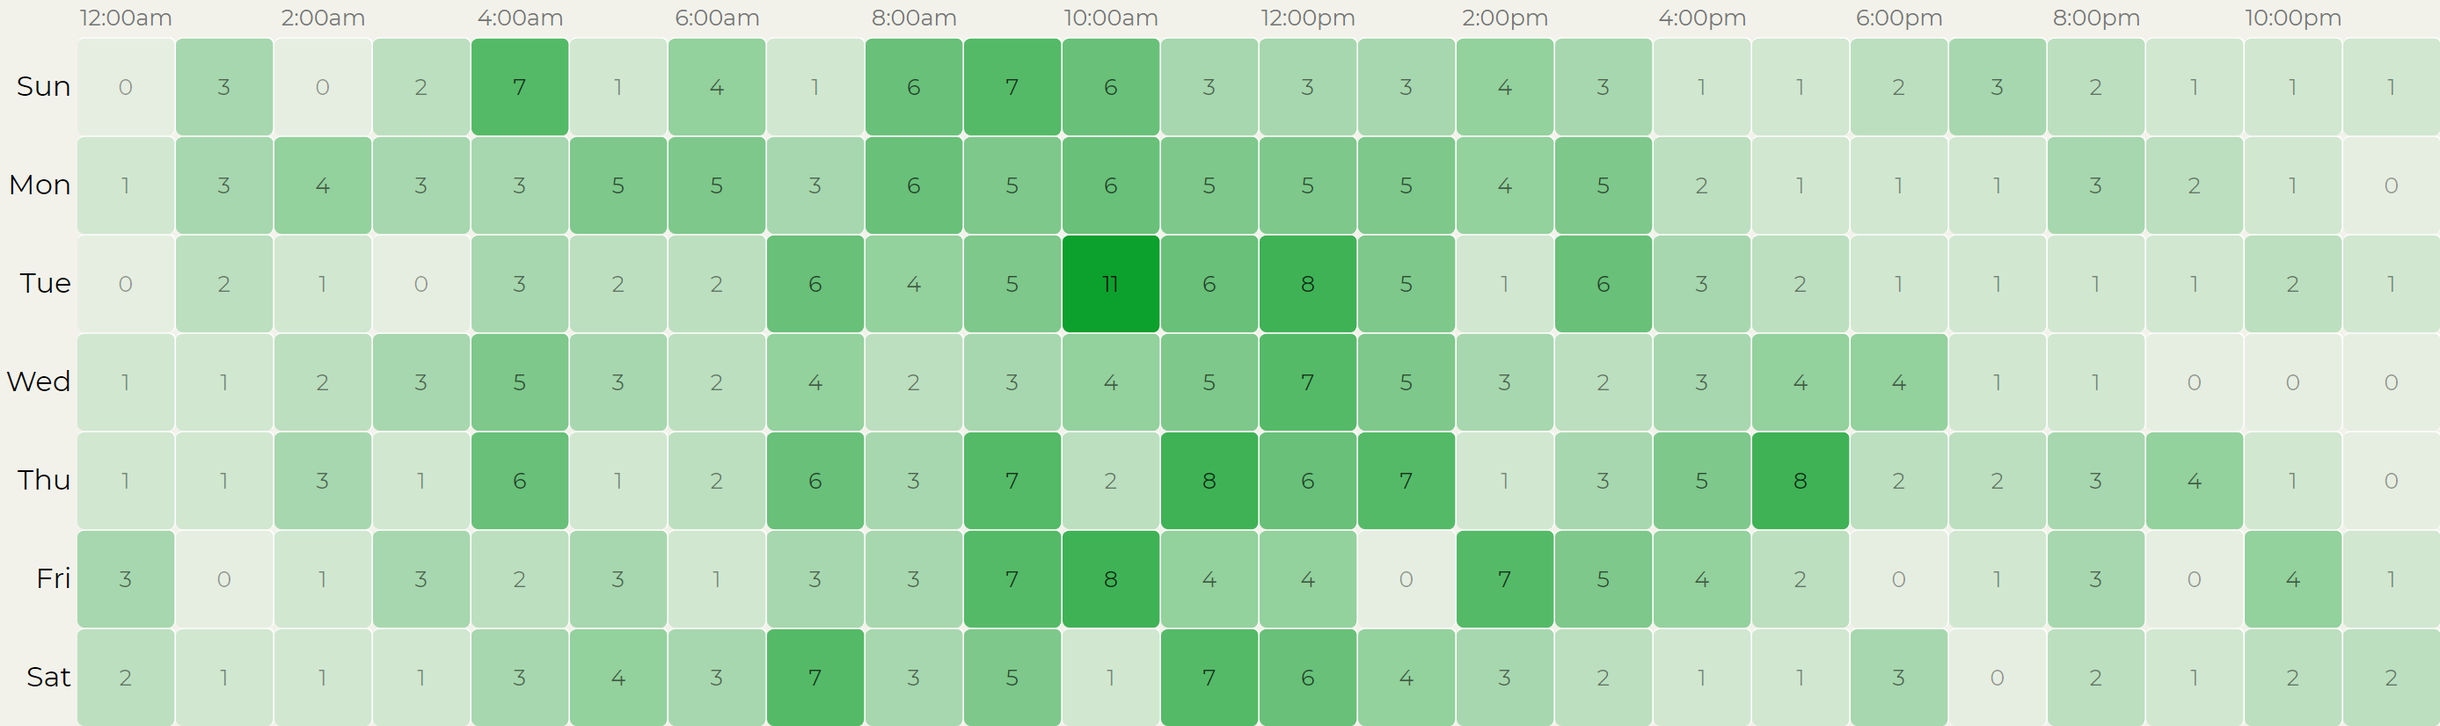
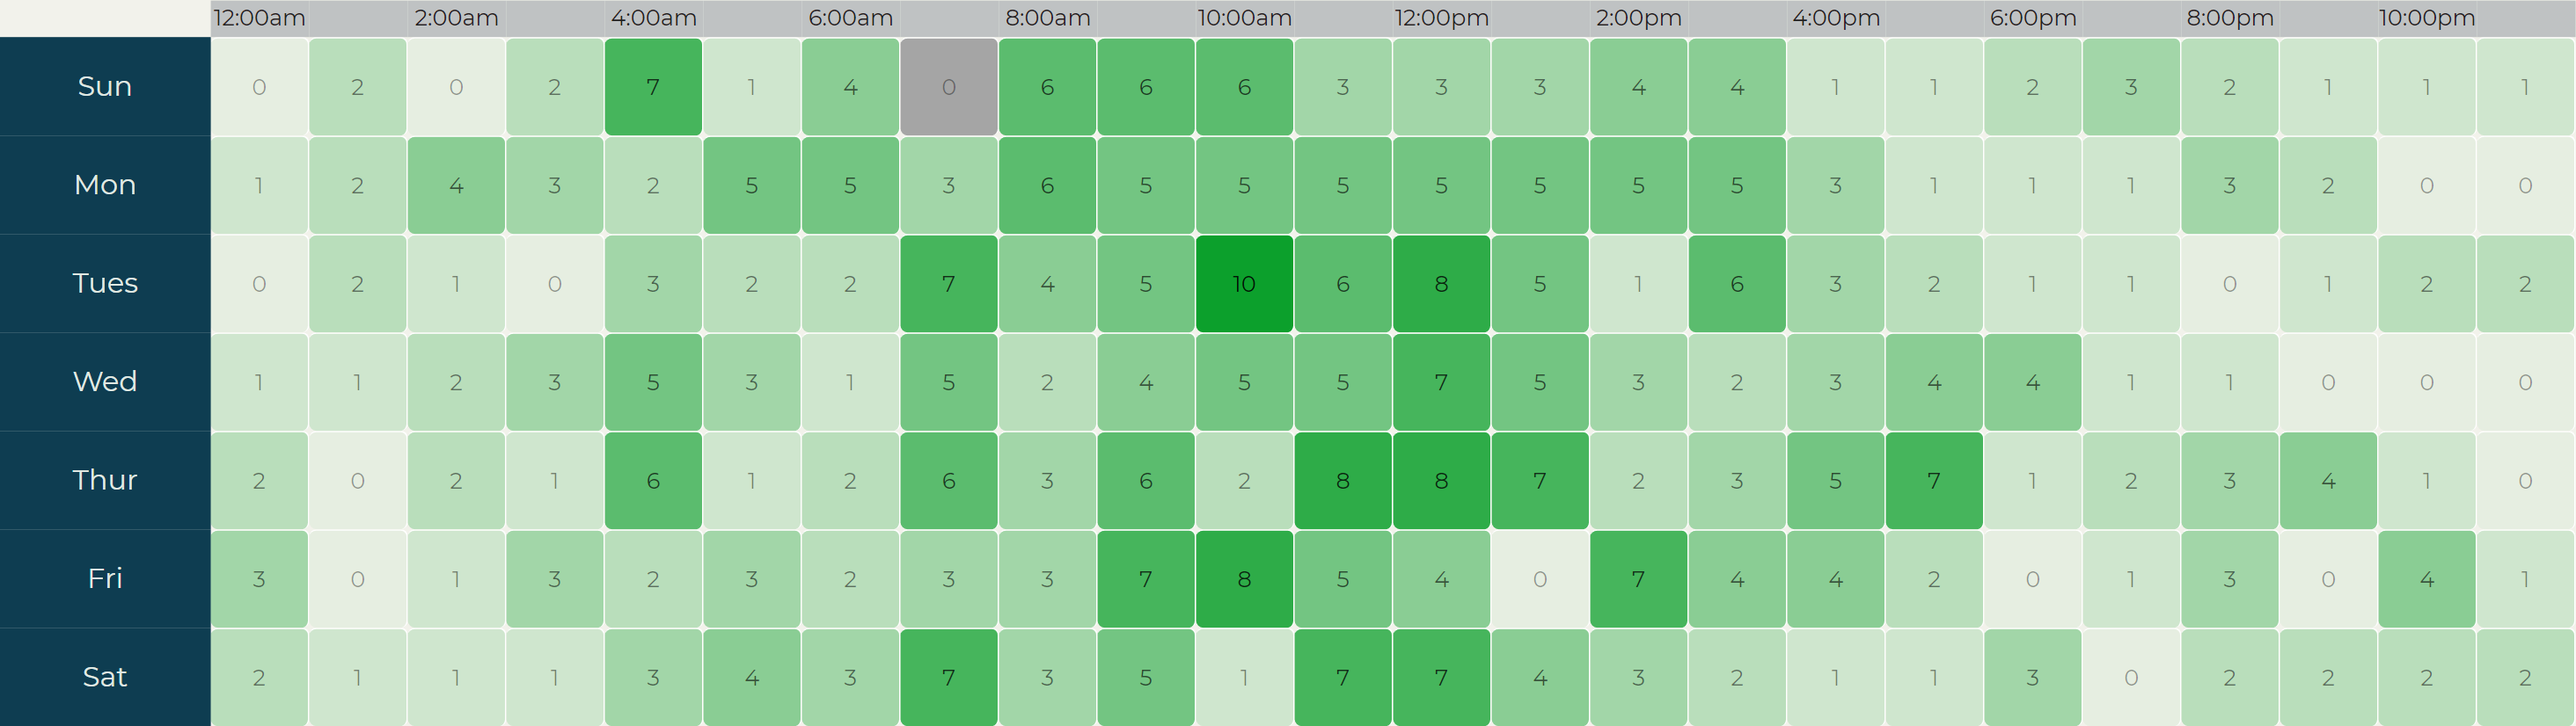
minor heatmap styling

diff --git a/src/Components/Search/heatmap/heatmap.js b/src/Components/Search/heatmap/heatmap.js
@@ -7,6 +7,7 @@ import * as S from './styles';
 const Heatmap = ({ posts }) => {
   const [heatData, setHeatData] = useState();
   const [selectedPosts, setSelectedPosts] = useState();
+  const [cell, setCell] = useState();
 
   const xLabels = new Array(24).fill(0).map((_, i) => {
     let hour = new Date();
@@ -20,7 +21,7 @@ const Heatmap = ({ posts }) => {
     return `${hours}:00${ampm}`;
   });
 
-  const yLabels = ['Sun', 'Mon', 'Tue', 'Wed', 'Thu', 'Fri', 'Sat'];
+  const yLabels = ['Sun', 'Mon', 'Tues', 'Wed', 'Thur', 'Fri', 'Sat'];
 
   const timeGrid = new Array(yLabels.length).fill(0).map(() => new Array(xLabels.length).fill(0));
 
@@ -39,6 +40,7 @@ const Heatmap = ({ posts }) => {
   }, [posts]);
 
   const table = (x, y) => {
+    setCell([x, y]);
     const filterPosts = posts.filter((post) => {
       const date = new Date(post.data.created_utc * 1000);
       const hour = date.getHours();
@@ -82,16 +84,24 @@ const Heatmap = ({ posts }) => {
             yLabels={yLabels}
             data={heatData}
             xLabelsStyle={(i) => ({
-              color: i % 2 ? 'transparent' : '#777',
+              color: i % 2 ? 'transparent' : '#1F2122',
               fontSize: '.8rem',
+              background: '#BFC2C3',
             })}
             yLabelsStyle={() => ({
               fontSize: '1rem',
+              color: '#E0E9E3',
+              background: '#0E3D51',
+              width: '120px',
+              textAlign: 'center',
             })}
             square
             cellHeight="3.5rem"
             cellRender={(x, y, val) => val && <div title={`Pos(${x}, ${y}) = ${val}`}>{val}</div>}
             onClick={(x, y) => table(x, y)}
+            cellStyle={(x, y) => cell && (x === cell[0] && y === cell[1] && ({
+              background: 'rgb(165, 165, 165)',
+            }))}
           />
           {
             selectedPosts && (

diff --git a/src/Components/Search/heatmap/styles.js b/src/Components/Search/heatmap/styles.js
@@ -6,6 +6,7 @@ export const Container = styled.section`
 
 export const TableContainer = styled(Container)`
   width: 80%;
+  max-width: 1000px;
   margin: 0 auto;
   margin-top: 50px;
   font-family: ${(props) => props.theme.font.title};
@@ -29,7 +30,7 @@ export const Header = styled.th`
 `;
 
 export const Row = styled.tr`
-
+  text-align: left;
 `;
 
 export const Cell = styled.td`

diff --git a/src/Components/Search/Search.js b/src/Components/Search/Search.js
@@ -1,5 +1,4 @@
 /* eslint-disable no-return-assign */
-/* eslint-disable no-console */
 /* eslint-disable react/prop-types */
 import React, { useState } from 'react';
 import { useHistory } from 'react-router-dom';
